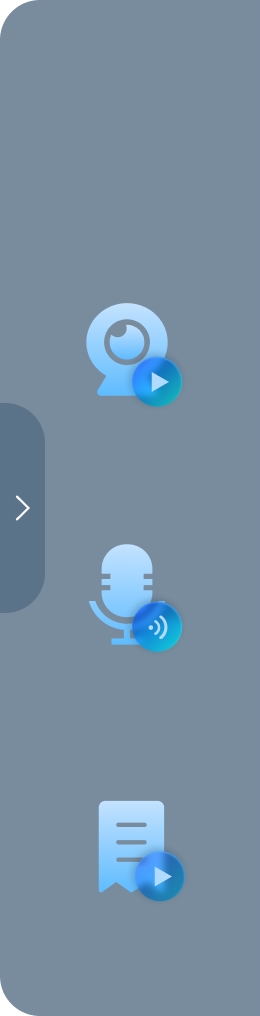
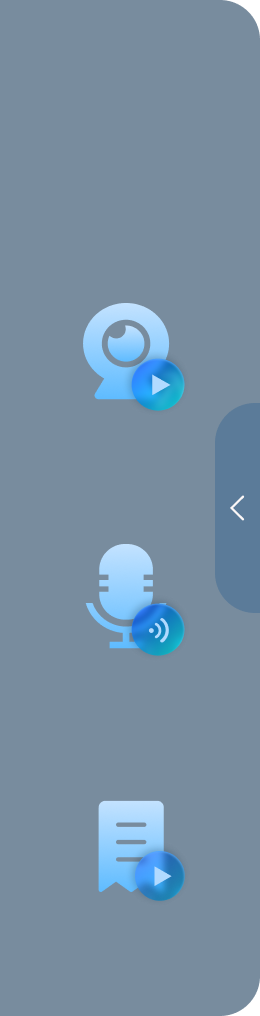
弹出框调整

diff --git a/simo-leaderview-vue/src/views/HomePage/HomePage.vue b/simo-leaderview-vue/src/views/HomePage/HomePage.vue
@@ -1735,7 +1735,7 @@ html[data-theme='blueWhite'] {
     width: 45px;
     position: fixed;
     top: 600px;
-    left: 3790px;
+    left: 0px;
     position: absolute;
     z-index: 10000;
     background: url(./boxClose.png);
@@ -1746,7 +1746,7 @@ html[data-theme='blueWhite'] {
     width: 253px;
     position: fixed;
     top: 600px;
-    left: 3580px;
+    left: 0px;
     background-color: rgb(12, 236, 206);
     position: absolute;
     z-index: 10000;
@@ -1755,6 +1755,8 @@ html[data-theme='blueWhite'] {
     .CloseBox{
       height: 220px;
       width: 50px;
+      right: 0px;
+      cursor: pointer;
       position: absolute;
       top: 400px;
       z-index: 10000;
@@ -1799,7 +1801,7 @@ html[data-theme='blueWhite'] {
     .ChildrenBox{
       height: 365px;
       width: 260px;
-      left: -260px;
+      left: 260px;
       top: 750px;
       background: url(./btBack.png);
       background-size: 100%  100%;

diff --git a/simo-leaderview-vue/src/views/lookPage/lookPage.vue b/simo-leaderview-vue/src/views/lookPage/lookPage.vue
@@ -1721,7 +1721,7 @@ html[data-theme='blueWhite'] {
     width: 45px;
     position: fixed;
     top: 600px;
-    left: 3790px;
+    left: 0px;
     position: absolute;
     z-index: 10000;
     background: url(./boxClose.png);
@@ -1732,7 +1732,7 @@ html[data-theme='blueWhite'] {
     width: 253px;
     position: fixed;
     top: 600px;
-    left: 3580px;
+    left: 0px;
     background-color: rgb(12, 236, 206);
     position: absolute;
     z-index: 10000;
@@ -1741,6 +1741,8 @@ html[data-theme='blueWhite'] {
     .CloseBox{
       height: 220px;
       width: 50px;
+      cursor: pointer;
+      right: 0px;
       position: absolute;
       top: 400px;
       z-index: 10000;
@@ -1782,7 +1784,7 @@ html[data-theme='blueWhite'] {
     .ChildrenBox{
       height: 365px;
       width: 260px;
-      left: -260px;
+      left: 260px;
       top: 750px;
       background: url(./btBack.png);
       background-size: 100%  100%;
